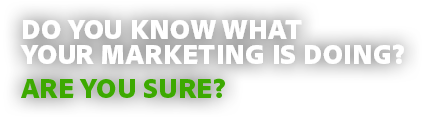
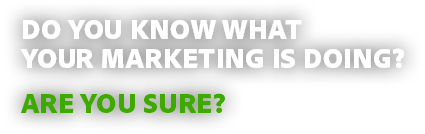
making some granular adjustments

Changed region(s): [[0.0306, 0.3529, 0.9482, 0.8571], [0.0306, 0.1513, 0.7341, 0.3277]]

diff --git a/woo-woo/2014-06-24/mobile/css/style.css b/woo-woo/2014-06-24/mobile/css/style.css
@@ -13,9 +13,9 @@ img { width: 100%; }
 #qzad .frame-start .cta { position: absolute; right: 9px; bottom: 10px; width: 90px; }
 #qzad .frame-end { display: none; position: absolute; top: 0; right: 0; bottom: 0; left: 0; background: url(../images/bg-final.jpg) no-repeat center center; background-size: cover; }
 #qzad .frame-end.show { display: block; }
-#qzad .frame-end .marketing-final { position: absolute; top: 15px; left: 15px; width: 154px; }
-#qzad .frame-end .logo-final { position: absolute; top: 0; right: 15px; width: 32px; }
-#qzad .frame-end .copy-final { position: absolute; bottom: 15px; left: 15px; width: 212px; }
+#qzad .frame-end .marketing-final { position: absolute; top: 15px; right: 15px; width: 154px; }
+#qzad .frame-end .logo-final { position: absolute; top: 0; left: 15px; width: 32px; }
+#qzad .frame-end .copy-final { position: absolute; bottom: 15px; left: 15px; width: 184px; }
 #qzad .frame-end .cta-final { position: absolute; right: 15px; bottom: 14px; width: 90px; }
 #qzad .video-container { position: absolute; z-index: 101; top: 0; right: 0; bottom: 0; left: 0; background-color: black; display: none; }
 #qzad .video-container .video { width: 100%; height: 100%; }

diff --git a/woo-woo/2014-06-24/tablet/css/style.css b/woo-woo/2014-06-24/tablet/css/style.css
@@ -14,7 +14,7 @@ img { width: 100%; }
 #qzad .frame-end { display: none; position: absolute; top: 0; right: 0; bottom: 0; left: 0; background: url(../images/bg-final.jpg) no-repeat center center; background-size: 100%; }
 #qzad .frame-end.show { display: block; }
 #qzad .frame-end .copy-final { position: absolute; top: 278px; left: 30px; width: 311px; }
-#qzad .frame-end .cta-final { position: absolute; left: 30px; bottom: 78px; width: 135px; }
+#qzad .frame-end .cta-final { position: absolute; left: 30px; bottom: 77px; width: 135px; }
 #qzad .video-container { position: absolute; z-index: 101; top: 0; right: 0; bottom: 0; left: 0; background-color: black; display: none; }
 #qzad .video-container .video { position: absolute; top: 80px; right: 0; bottom: 80px; left: 0; }
 #qzad .video-container .x { color: white; position: absolute; top: 0; right: 0; font-size: 60px; width: 60px; height: 60px; text-align: center; line-height: 60px; }

diff --git a/woo-woo/2014-06-24/mobile/scss/style.scss b/woo-woo/2014-06-24/mobile/scss/style.scss
@@ -68,20 +68,20 @@ img {
 		.marketing-final {
 			position: absolute;
 			top: 15px;
-			left: 15px;
+			right: 15px;
 			width: 154px;
 		}
 		.logo-final {
 			position: absolute;
 			top: 0;
-			right: 15px;
+			left: 15px;
 			width: 32px;
 		}
 		.copy-final {
 			position: absolute;
 			bottom: 15px;
 			left: 15px;
-			width: 212px;
+			width: 184px;
 		}
 		.cta-final {
 			position: absolute;

diff --git a/woo-woo/2014-06-24/tablet/scss/style.scss b/woo-woo/2014-06-24/tablet/scss/style.scss
@@ -75,7 +75,7 @@ img {
 		.cta-final {
 			position: absolute;
 			left: 30px;
-			bottom: 78px;
+			bottom: 77px;
 			width: 135px;
 		}
 	}
